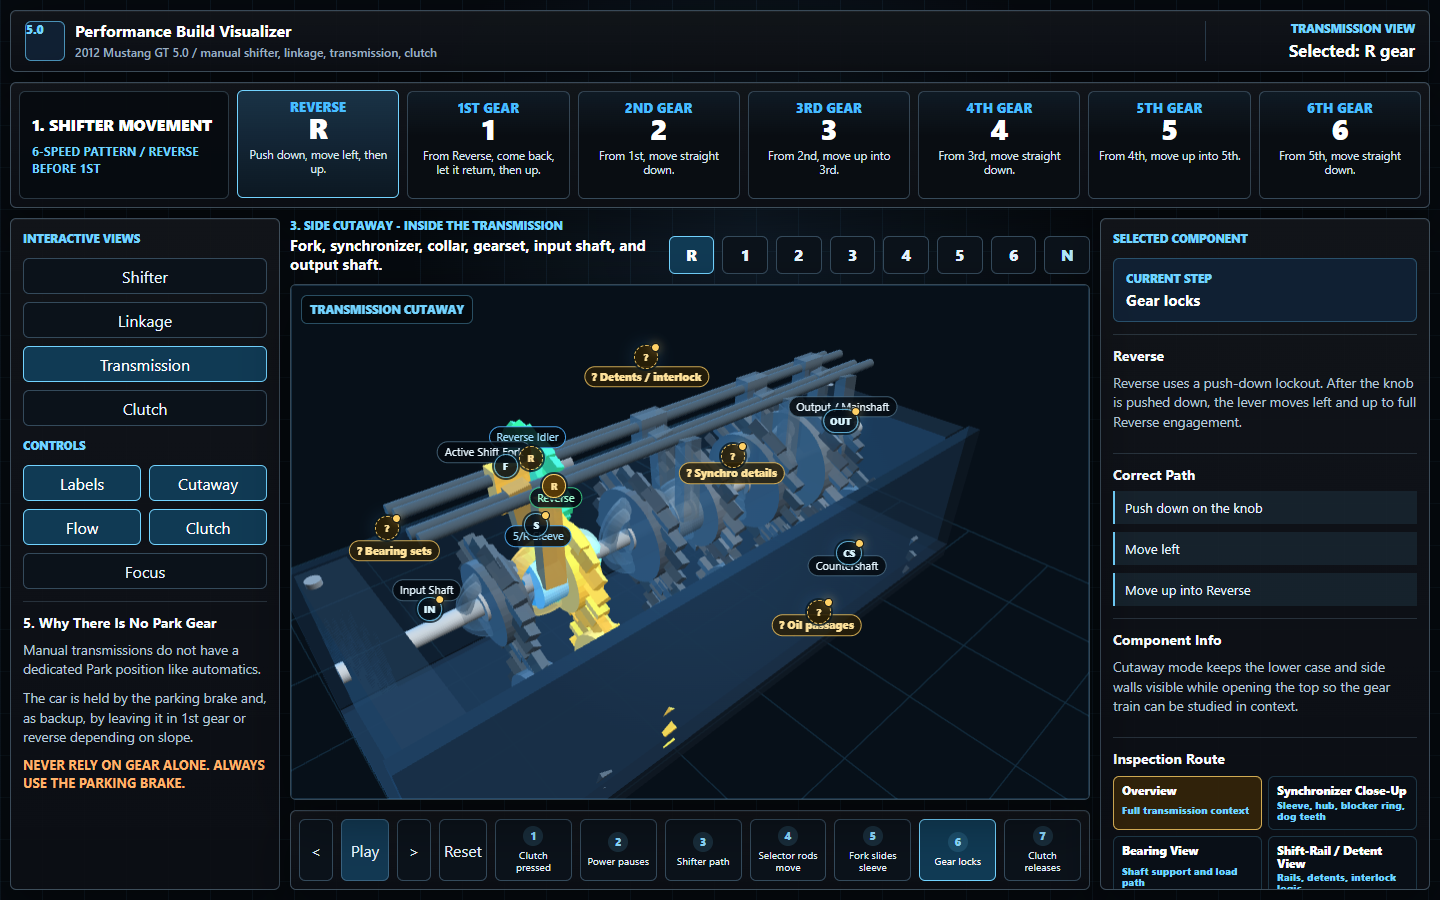
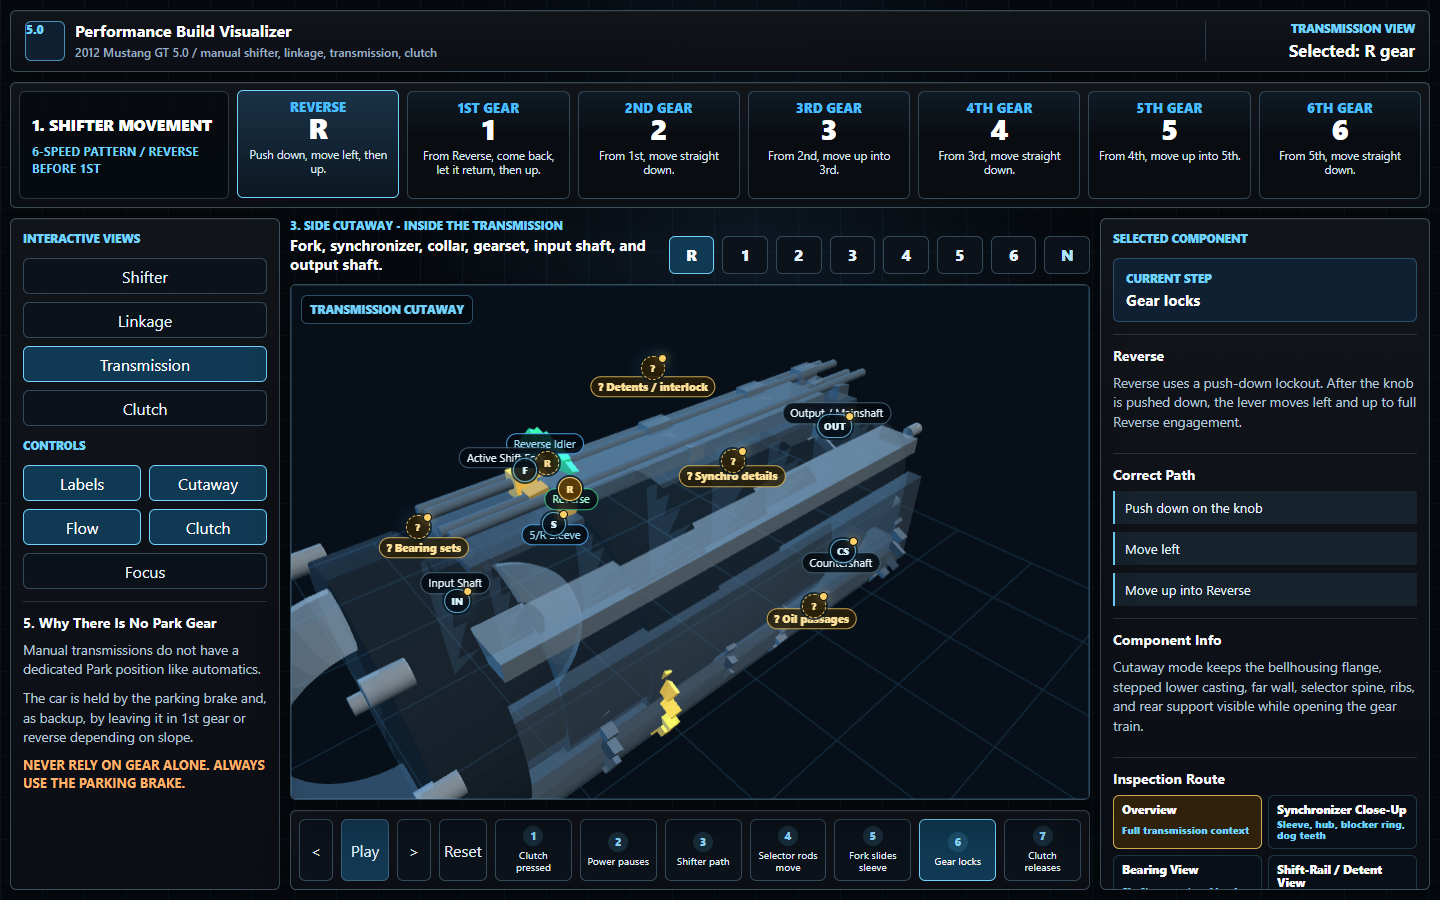
Phase C Stage 4A MT82 case foundation

Changed region(s): [[0.1875, 0.3733, 0.6875, 0.9022], [0.75, 0.84, 1.0, 0.9956], [0.7812, 0.7156, 0.9688, 0.8089]]

diff --git a/src/app.js b/src/app.js
@@ -12,6 +12,7 @@ const gearConfigs = {
 const componentCatalog = {
   case: { name: "Aluminum Transmission Case", assembly: "Housing", role: "Contains the shafts, bearings, shift rail hardware, and oil while supporting the external shifter linkage." },
   bellhousing: { name: "Bellhousing / Front Case", assembly: "Housing", role: "Bolts to the engine and surrounds the clutch-to-input-shaft interface." },
+  tailHousing: { name: "Rear / Tail Housing", assembly: "Housing", role: "Narrows around the output shaft and supports the rear bearing, seal, and driveshaft connection." },
   inputShaft: { name: "Input Shaft", assembly: "Shafts", role: "Receives torque from the clutch and feeds the gear train." },
   outputShaft: { name: "Output Shaft / Mainshaft", assembly: "Shafts", role: "Carries selected gear torque out of the transmission toward the driveshaft." },
   countershaft: { name: "Countershaft", assembly: "Shafts", role: "Carries the mating gear cluster that stays meshed with the mainshaft gears." },
@@ -49,7 +50,7 @@ const componentCatalog = {
   synchroForkPads: { name: "Shift Fork Pads", assembly: "Synchronizer Close-Up", role: "Contact pads where the shift fork pushes the sleeve without directly grinding against the gear teeth." },
 };
 
-const baseComponentIds = ["case", "bellhousing", "inputShaft", "countershaft", "outputShaft", "selectorRod", "shiftRod"];
+const baseComponentIds = ["case", "bellhousing", "tailHousing", "inputShaft", "countershaft", "outputShaft", "selectorRod", "shiftRod"];
 const deferredComponentIds = ["bearingSets", "detentSystem", "caseRibs", "oilPassages", "clutchInterface", "synchroDetails"];
 const deeperInspectionLabels = {
   bearingSets: "Viewable in bearing close-up",
@@ -115,8 +116,8 @@ const inspectionRoutes = {
   caseShell: {
     title: "Case Shell Layer",
     status: "Ribs, bolt bosses, seals, openings",
-    summary: "Routes the temporary case scaffold toward the future MT82-realistic shell with ribs, bolt bosses, sealing surfaces, and bearing pockets.",
-    next: "This is where the squared scaffold gets replaced by a realistic case silhouette.",
+    summary: "Separates the bellhousing, stepped main case, and rear extension while preserving the gear-train clearances and future removable-shell structure.",
+    next: "Stage 4B will refine the cut planes, bearing pockets, service openings, and individually removable shell layers.",
   },
   lubrication: {
     title: "Lubrication View",
@@ -151,7 +152,7 @@ const depthStages = {
 };
 const depthStageOrder = ["context", "closeup", "internal"];
 const depthCameraPresets = {
-  context: { yaw: -0.72, pitch: 0.58, distance: 5.9, panX: 0.05, panY: 0.02 },
+  context: { yaw: -0.72, pitch: 0.58, distance: 6.35, panX: 0.0, panY: 0.02 },
   closeup: { yaw: -0.62, pitch: 0.62, distance: 4.45, panX: 0.35, panY: 0.26 },
   internal: { yaw: -0.52, pitch: 0.5, distance: 4.05, panX: 0.58, panY: 0.18 },
 };
@@ -183,6 +184,7 @@ const componentInspectionRoute = {
   caseRibs: "caseShell",
   case: "caseShell",
   bellhousing: "caseShell",
+  tailHousing: "caseShell",
   oilPassages: "lubrication",
   clutchInterface: "clutchInput",
 };
@@ -229,6 +231,7 @@ const focusGroups = {
   gear6: ["gear6", "hub6", "fork6"],
   case: ["case", "bellhousing", "caseRibs"],
   bellhousing: ["bellhousing", "case", "clutchInterface"],
+  tailHousing: ["tailHousing", "case", "outputShaft", "bearingSets"],
   blockingRing: ["blockingRing", "hub12", "hub34", "hub5R", "hub6", "gear1", "gear2", "gear3", "gear4", "gear5", "gear6", "synchroBlockerRing"],
   synchroDetails: ["hub12", "hub34", "hub5R", "hub6", "blockingRing", "synchroHubCore", "synchroSleeve", "synchroBlockerRing", "synchroDogTeeth", "synchroKeysSprings", "synchroForkPads"],
   synchroHubCore: ["synchroHubCore", "synchroSleeve", "synchroKeysSprings"],
@@ -254,7 +257,7 @@ const viewMeta = {
 const cameraPresets = {
   shifter: { yaw: -0.55, pitch: 0.66, distance: 6.35, panX: 0.0, panY: 0.05 },
   linkage: { yaw: -0.9, pitch: 0.94, distance: 5.3, panX: 0.05, panY: 0.0 },
-  cutaway: { yaw: -0.72, pitch: 0.58, distance: 5.9, panX: 0.05, panY: 0.02 },
+  cutaway: { yaw: -0.72, pitch: 0.58, distance: 6.35, panX: 0.0, panY: 0.02 },
   clutch: { yaw: -0.42, pitch: 0.45, distance: 5.1, panX: -0.12, panY: 0.05 },
 };
 const orderedGears = ["R", "1", "2", "3", "4", "5", "6", "N"];
@@ -290,9 +293,9 @@ const timeline = [
 const caseModes = ["cutaway", "exposed", "case"];
 const caseModeLabels = { cutaway: "Cutaway", exposed: "Exposed", case: "Case" };
 const caseModeHelp = {
-  cutaway: "Cutaway mode keeps the lower case and side walls visible while opening the top so the gear train can be studied in context.",
-  exposed: "Exposed mode removes most of the housing and leaves the shafts, gears, forks, sleeves, and reverse idler visible for inspection.",
-  case: "Case mode shows the assembled transmission housing first; internal parts are intentionally muted until a cutaway or exposed view is selected.",
+  cutaway: "Cutaway mode keeps the bellhousing flange, stepped lower casting, far wall, selector spine, ribs, and rear support visible while opening the gear train.",
+  exposed: "Exposed mode reduces the housing to faint spatial references, casting ribs, and support rails so the shafts, gears, forks, sleeves, and reverse idler remain readable.",
+  case: "Case mode shows the assembled bellhousing, stepped main gearbox casting, selector-rail spine, and narrower rear extension; internal parts are intentionally muted.",
 };
 const sanityChecklist = [
   { label: "Gear map", status: "Pass", detail: "Each gear selects a primary gear plus its sleeve, fork, blocking ring, shafts, and power state." },
@@ -301,8 +304,9 @@ const sanityChecklist = [
   { label: "Deferred parts", status: "Tracked", detail: "Bearings, detents, oil passages, seals, ribs, and fine synchronizer details are marked for deeper inspection." },
   { label: "Phase C readiness", status: "Ready", detail: "Teachable component groups now have stable IDs for future hover/click targets." },
   { label: "Hotspot behavior", status: "Pass", detail: "Clickable markers route to the right inspection path, expose depth hints, and keep labels compact." },
+  { label: "Case foundation", status: "Pass", detail: "Bellhousing, main case, and rear housing now share one stepped MT82-style envelope without moving the established internal gear-train coordinates." },
 ];
-const modeledNowIds = ["case", "bellhousing", "inputShaft", "outputShaft", "countershaft", "reverseIdler", "selectorRod", "shiftRod", "fork12", "fork34", "fork56", "fork6", "hub12", "hub34", "hub5R", "hub6", "gearR", "gear1", "gear2", "gear3", "gear4", "gear5", "gear6"];
+const modeledNowIds = ["case", "bellhousing", "tailHousing", "inputShaft", "outputShaft", "countershaft", "reverseIdler", "selectorRod", "shiftRod", "fork12", "fork34", "fork56", "fork6", "hub12", "hub34", "hub5R", "hub6", "gearR", "gear1", "gear2", "gear3", "gear4", "gear5", "gear6"];
 const synchroCloseupIds = ["synchroHubCore", "synchroSleeve", "synchroBlockerRing", "synchroDogTeeth", "synchroKeysSprings", "synchroForkPads"];
 const simplifiedNowIds = ["blockingRing", "synchroDetails", "clutchInterface", ...synchroCloseupIds];
 
@@ -740,6 +744,69 @@ function drawLinkage() {
   addLabel([1.15 + rodPull,0.84,0.34], "Longitudinal Push/Pull", "green");
 }
 
+function drawCaseFoundation(mode) {
+  const assembled = mode === "case";
+  const cutaway = mode === "cutaway";
+  const shellAlpha = assembled ? 0.96 : cutaway ? 0.18 : 0.07;
+  const edgeAlpha = assembled ? 0.98 : cutaway ? 0.7 : 0.3;
+  const bellColor = selectedColor("bellhousing", "#667583");
+  const caseColor = selectedColor("case", "#536575");
+  const tailColor = selectedColor("tailHousing", "#61717e");
+  const bellGlow = selectedGlow("bellhousing");
+  const caseGlow = selectedGlow("case");
+  const tailGlow = selectedGlow("tailHousing");
+
+  // Bellhousing: broad clutch flange stepping down into the gearbox case.
+  mesh(cyl, model([-2.78,-0.06,0.02], [1.24,0.28,1.12], [0,0,Math.PI/2]), bellColor, focusAlpha("bellhousing", shellAlpha), bellGlow);
+  mesh(cyl, model([-2.38,-0.06,0.02], [0.98,0.3,0.92], [0,0,Math.PI/2]), bellColor, focusAlpha("bellhousing", shellAlpha), bellGlow);
+  mesh(torus, model([-3.04,-0.06,0.02], [1.28,1.16,1.28], [Math.PI/2,0,0]), "#a3afb8", focusAlpha("bellhousing", edgeAlpha), bellGlow);
+  mesh(torus, model([-2.16,-0.06,0.02], [0.91,0.86,0.91], [Math.PI/2,0,0]), "#82909b", focusAlpha("bellhousing", edgeAlpha * 0.8), bellGlow);
+
+  // Main gear case: stepped casting follows the gear cluster instead of a rectangular box.
+  [
+    [-1.68,-0.08,1.02,0.38],
+    [-0.92,-0.08,1.08,0.38],
+    [-0.14,-0.1,1.05,0.4],
+    [0.66,-0.12,1.0,0.4],
+    [1.44,-0.14,0.92,0.38],
+  ].forEach(([x,y,radius,halfLength]) => {
+    mesh(cyl, model([x,y,0.04], [radius,halfLength,radius * 0.92], [0,0,Math.PI/2]), caseColor, focusAlpha("case", shellAlpha), caseGlow);
+  });
+
+  // Rear extension and output support taper down toward the driveshaft.
+  mesh(cyl, model([2.15,-0.12,0.04], [0.78,0.38,0.72], [0,0,Math.PI/2]), tailColor, focusAlpha("tailHousing", shellAlpha), tailGlow);
+  mesh(cyl, model([2.72,-0.1,0.02], [0.59,0.3,0.54], [0,0,Math.PI/2]), tailColor, focusAlpha("tailHousing", shellAlpha), tailGlow);
+  mesh(torus, model([3.0,-0.1,0.02], [0.56,0.52,0.56], [Math.PI/2,0,0]), "#8c9aa5", focusAlpha("tailHousing", edgeAlpha), tailGlow);
+
+  // Raised selector-rail spine and lower sump/mounting rail.
+  mesh(cube, model([0.0,0.82,-0.24], [2.25,0.16,0.46]), caseColor, focusAlpha("case", assembled ? 0.96 : cutaway ? 0.58 : 0.2), caseGlow);
+  mesh(cube, model([0.22,1.02,-0.22], [1.58,0.1,0.32]), "#657785", focusAlpha("caseRibs", assembled ? 0.94 : cutaway ? 0.62 : 0.24));
+  mesh(cube, model([0.1,-0.92,0.18], [2.55,0.12,0.72]), "#455766", focusAlpha("case", assembled ? 0.96 : cutaway ? 0.82 : 0.3), caseGlow);
+  mesh(cube, model([1.86,-0.82,0.14], [0.72,0.12,0.58]), tailColor, focusAlpha("tailHousing", assembled ? 0.96 : cutaway ? 0.76 : 0.28), tailGlow);
+
+  // Casting ribs establish the final shell language and remain visible in every display mode.
+  [-2.08,-1.62,-1.12,-0.62,-0.12,0.4,0.92,1.44,1.88,2.34].forEach((x, index) => {
+    const radius = x < -2 ? 0.9 : x > 1.8 ? 0.66 : 0.98 - Math.max(0, x) * 0.08;
+    const id = x > 1.8 ? "tailHousing" : "caseRibs";
+    mesh(torus, model([x,-0.1,0.04], [radius,radius * 0.92,radius], [Math.PI/2,0,0]), index % 2 ? "#778792" : "#8a98a2", focusAlpha(id, edgeAlpha * (assembled ? 0.72 : 0.54)), selectedGlow(id));
+  });
+
+  // Bellhousing bolt bosses and rear flange bosses provide recognizable service points.
+  [[0.88,-0.78],[0.88,0.78],[0.18,-1.12],[0.18,1.12],[-0.7,-0.88],[-0.7,0.88]].forEach(([y,z]) => {
+    mesh(cyl, model([-3.05,y,z], [0.09,0.13,0.09], [0,0,Math.PI/2]), "#b5bec5", focusAlpha("bellhousing", edgeAlpha), bellGlow);
+  });
+  [[0.48,-0.55],[0.48,0.55],[-0.54,-0.48],[-0.54,0.48]].forEach(([y,z]) => {
+    mesh(cyl, model([3.0,y,z], [0.065,0.1,0.065], [0,0,Math.PI/2]), "#aeb8c0", focusAlpha("tailHousing", edgeAlpha), tailGlow);
+  });
+
+  if (cutaway) {
+    // Opaque lower and far-side remnants make the open-top cutaway read as a removed casting section.
+    mesh(cube, model([-0.08,-0.78,0.72], [2.58,0.16,0.18]), "#536575", focusAlpha("case", 0.74), caseGlow);
+    mesh(cube, model([-0.08,-0.22,0.98], [2.5,0.52,0.08]), "#617281", focusAlpha("case", 0.46), caseGlow);
+    mesh(cube, model([-0.08,0.68,0.76], [2.38,0.08,0.22]), "#8996a0", focusAlpha("caseRibs", 0.72));
+  }
+}
+
 function drawTransmission() {
   const g = gearConfigs[state.gear];
   const activeGear = state.gear === "N" ? null : `gear${state.gear}`;
@@ -751,25 +818,11 @@ function drawTransmission() {
   const internalAlpha = state.caseMode === "case" ? 0.16 : 1;
   const labelInternals = state.caseMode !== "case";
   const routeActive = state.inspectionMode !== "overview";
-  if (state.caseMode === "cutaway") {
-    mesh(cube, model([0,-0.88,0.08], [3.0,0.08,1.08]), "#182331", focusAlpha("case", 0.72));
-    mesh(cube, model([0,-0.08,1.1], [3.0,0.72,0.06]), "#182331", focusAlpha("case", 0.46));
-    mesh(cube, model([0,-0.08,-0.98], [3.0,0.72,0.04]), "#182331", focusAlpha("case", 0.28));
-    mesh(cube, model([-2.72,-0.1,0.06], [0.18,0.72,1.0]), "#263546", focusAlpha("bellhousing", 0.42));
-    mesh(cube, model([2.88,-0.1,0.06], [0.18,0.68,0.9]), "#263546", focusAlpha("case", 0.42));
-  } else if (state.caseMode === "exposed") {
-    mesh(cube, model([0,-0.9,0.08], [2.92,0.04,0.95]), "#101822", focusAlpha("case", 0.34));
-    mesh(cube, model([-2.72,-0.1,0.06], [0.12,0.54,0.78]), "#263546", focusAlpha("bellhousing", 0.28));
-    mesh(cube, model([2.86,-0.1,0.06], [0.12,0.5,0.72]), "#263546", focusAlpha("case", 0.28));
-  } else {
-    mesh(cube, model([0,-0.1,0.04], [3.02,0.92,1.08]), "#1d2b3a", focusAlpha("case", 0.9));
-    mesh(cube, model([0,0.66,-0.1], [2.52,0.18,0.78]), "#314252", focusAlpha("case", 0.92));
-    mesh(cube, model([-2.75,0.0,0.04], [0.36,0.74,0.96]), "#3b4a57", focusAlpha("bellhousing", 0.92));
-    mesh(cube, model([2.9,-0.04,0.04], [0.28,0.66,0.84]), "#3b4a57", focusAlpha("case", 0.92));
+  drawCaseFoundation(state.caseMode);
+  if (state.caseMode === "case") {
     mesh(cyl, model([-3.12,0.34,-0.08], [0.18,0.22,0.18], [0,0,Math.PI/2]), "#81909d", focusAlpha("inputShaft", 0.95));
     mesh(cyl, model([3.16,0.34,-0.08], [0.14,0.28,0.14], [0,0,Math.PI/2]), "#81909d", focusAlpha("outputShaft", 0.95));
   }
-  [[-2.82,0.62,-0.74],[-2.82,-0.68,-0.74],[2.98,0.54,-0.74],[2.98,-0.62,-0.74]].forEach((p) => mesh(cyl, model(p, [0.055,0.045,0.055]), "#9aa8b5", focusAlpha("caseRibs", 1)));
 
   drawShaft("inputShaft", [-2.95,0.34,-0.08], [-2.12,0.34,-0.08], "#d7e1e9", internalAlpha);
   drawShaft("outputShaft", [-2.12,0.34,-0.08], [2.95,0.34,-0.08], "#b8c5cf", internalAlpha);
@@ -837,12 +890,16 @@ function drawTransmission() {
     addHotspot([0.95,-0.78,0.92], "oilPassages", "?", "inspect");
     addHotspot([0.28,0.94,0.28], "synchroDetails", "?", "inspect");
   } else {
-    addLabel([0,1.08,-0.58], "Assembled MT82 Case");
-    addInspectionMarker([-2.25,0.95,-0.7], "?", "Case ribs / seals");
-    addInspectionMarker([-2.9,0.62,-0.16], "?", "Clutch input interface");
-    addHotspot([0,0.86,-0.58], "case", "CASE");
-    addHotspot([-2.25,1.14,-0.7], "caseRibs", "?", "inspect");
-    addHotspot([-2.9,0.82,-0.16], "clutchInterface", "?", "inspect");
+    addLabel([-2.62,1.16,-0.62], "Bellhousing", "route-sub");
+    addLabel([0,1.32,-0.56], "Main Gear Case", "route");
+    addLabel([2.48,0.92,-0.48], "Rear Housing", "route-sub");
+    addHotspot([-2.66,0.84,-0.58], "bellhousing", "BH");
+    addHotspot([0.1,1.02,-0.52], "case", "MC");
+    addHotspot([2.46,0.66,-0.42], "tailHousing", "RH");
+    addInspectionMarker([-1.15,1.18,-0.72], "?", "Casting ribs / seals");
+    addInspectionMarker([-2.92,0.62,-0.16], "?", "Clutch input interface");
+    addHotspot([-1.15,1.34,-0.72], "caseRibs", "?", "inspect");
+    addHotspot([-2.92,0.82,-0.16], "clutchInterface", "?", "inspect");
   }
 }
 

diff --git a/index.html b/index.html
@@ -147,6 +147,6 @@
         </section>
       </aside>
     </main>
-    <script type="module" src="./src/app.js?v=mt82-hotspots-c3e"></script>
+    <script type="module" src="./src/app.js?v=mt82-case-foundation-c4a"></script>
   </body>
 </html>

diff --git a/PHASE_C_SANITY_CHECK.md b/PHASE_C_SANITY_CHECK.md
@@ -25,3 +25,4 @@
 - Phase C Stage 3C establishes Context, Close-Up, and Internal Detail depth stages; future route modules should use those stages before adding more labels or hotspots.
 - Phase C Stage 3D syncs the synchronizer close-up to the shift timeline: blocker ring during speed match, fork/sleeve travel during engagement, dog teeth lock, and power flow after clutch release.
 - Phase C Stage 3E improves hotspot behavior: routed markers show clearer affordance, hover tooltips explain where to inspect next, and selected components can automatically move to their best route/depth.
+- Phase C Stage 4A replaces the rectangular shell scaffold with a stepped MT82-style foundation: broad bellhousing, main gear case, selector spine, lower rail, casting ribs, bolt bosses, and narrower rear housing.